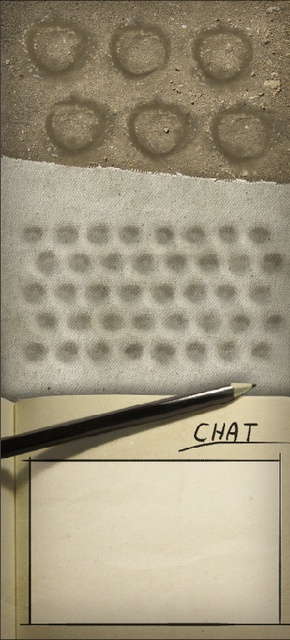
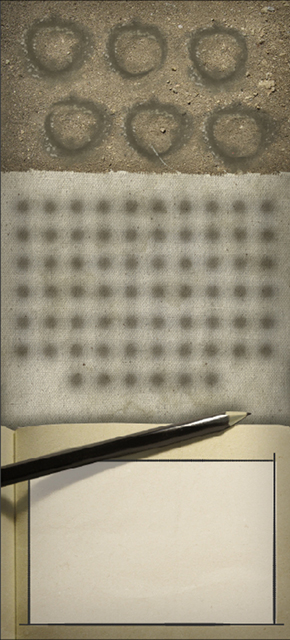
Hook up new guerrilla side board showing 66 pieces

diff --git a/client/main.js b/client/main.js
@@ -220,19 +220,19 @@ require(["underscore", "lib/checkers", 'helpers'], function(_, Checkers, helpers
         $guerrilla_reserves.get(0).appendChild(guerrilla);
       }
     } else {
-      var num_reserves = Math.min(40, g_gameState.remainingGuerrillaPieces);
-      var pieces_per_row = 8;
-      var HEIGHT = 28;
-      var WIDTH = 28;
-      var MARGIN_RIGHT = 5;
-      var MARGIN_TOP = 2;
-      var ODD_ROW_OFFSET = 10;
+      var num_reserves = Math.min(66, g_gameState.remainingGuerrillaPieces);
+      var pieces_per_row = 10;
+      var HEIGHT = 25;
+      var WIDTH = 25;
+      var MARGIN_RIGHT = 3;
+      var MARGIN_TOP = 4;
+      var LAST_ROW_OFFSET = 56;
       for (var i = 0; i < num_reserves; i++) {
         var reserve = document.createElement("div");
         var row = (Math.floor(i / pieces_per_row));
         reserve.className = "guerrilla_piece guerrilla_theme_guerrilla guerrilla_reserve";
         reserve.style.top = row*(HEIGHT + MARGIN_TOP);
-        reserve.style.left = (i % pieces_per_row) * (WIDTH + MARGIN_RIGHT) + (row % 2)*ODD_ROW_OFFSET;
+        reserve.style.left = (i % pieces_per_row) * (WIDTH + MARGIN_RIGHT) + Math.floor((row+1) / 7)*LAST_ROW_OFFSET;
         $guerrilla_reserves.get(0).appendChild(reserve);
       }
     }

diff --git a/style/board.css b/style/board.css
@@ -33,10 +33,10 @@ body {
 
 .guerrilla_side #chat {
   position: absolute;
-  top: 462px;
+  top: 472px;
   left: 30px;
   width: 252px;
-  height: 163px;
+  height: 153px;
 }
 
 .coin_side #chat {
@@ -50,7 +50,7 @@ body {
 .guerrilla_side #chat_messages {
   overflow-y: scroll;
   overflow-x: none;
-  height: 134px;
+  height: 124px;
   padding: 3px 2px;
   border-bottom: 1px solid black;
   font-size: 14px;
@@ -100,7 +100,7 @@ body {
   font-size: 12px;
   width: 60px;
   height: 18px;
-  top: 142px !important;
+  top: 132px !important;
   left: 186px;
   border: none;
 
@@ -283,7 +283,7 @@ body {
 .guerrilla_side #soldier_status {
   position: relative;
   width: 262px;
-  height: 200px;
+  height: 173px;
   z-index: 1000;
 }
 
@@ -436,14 +436,15 @@ body {
 .guerrilla_side #guerrilla_reserves {
   position: relative;
   margin-top: 5px;
+  left: -10px;
   width: 262px;
   height: 200px;
   z-index: 1000;
 }
 
 .guerrilla_side .guerrilla_reserve {
-  width: 28px !important;
-  height: 28px !important;
+  width: 25px !important;
+  height: 25px !important;
   margin: 0px !important;
   background-size: 100% !important;
 }
